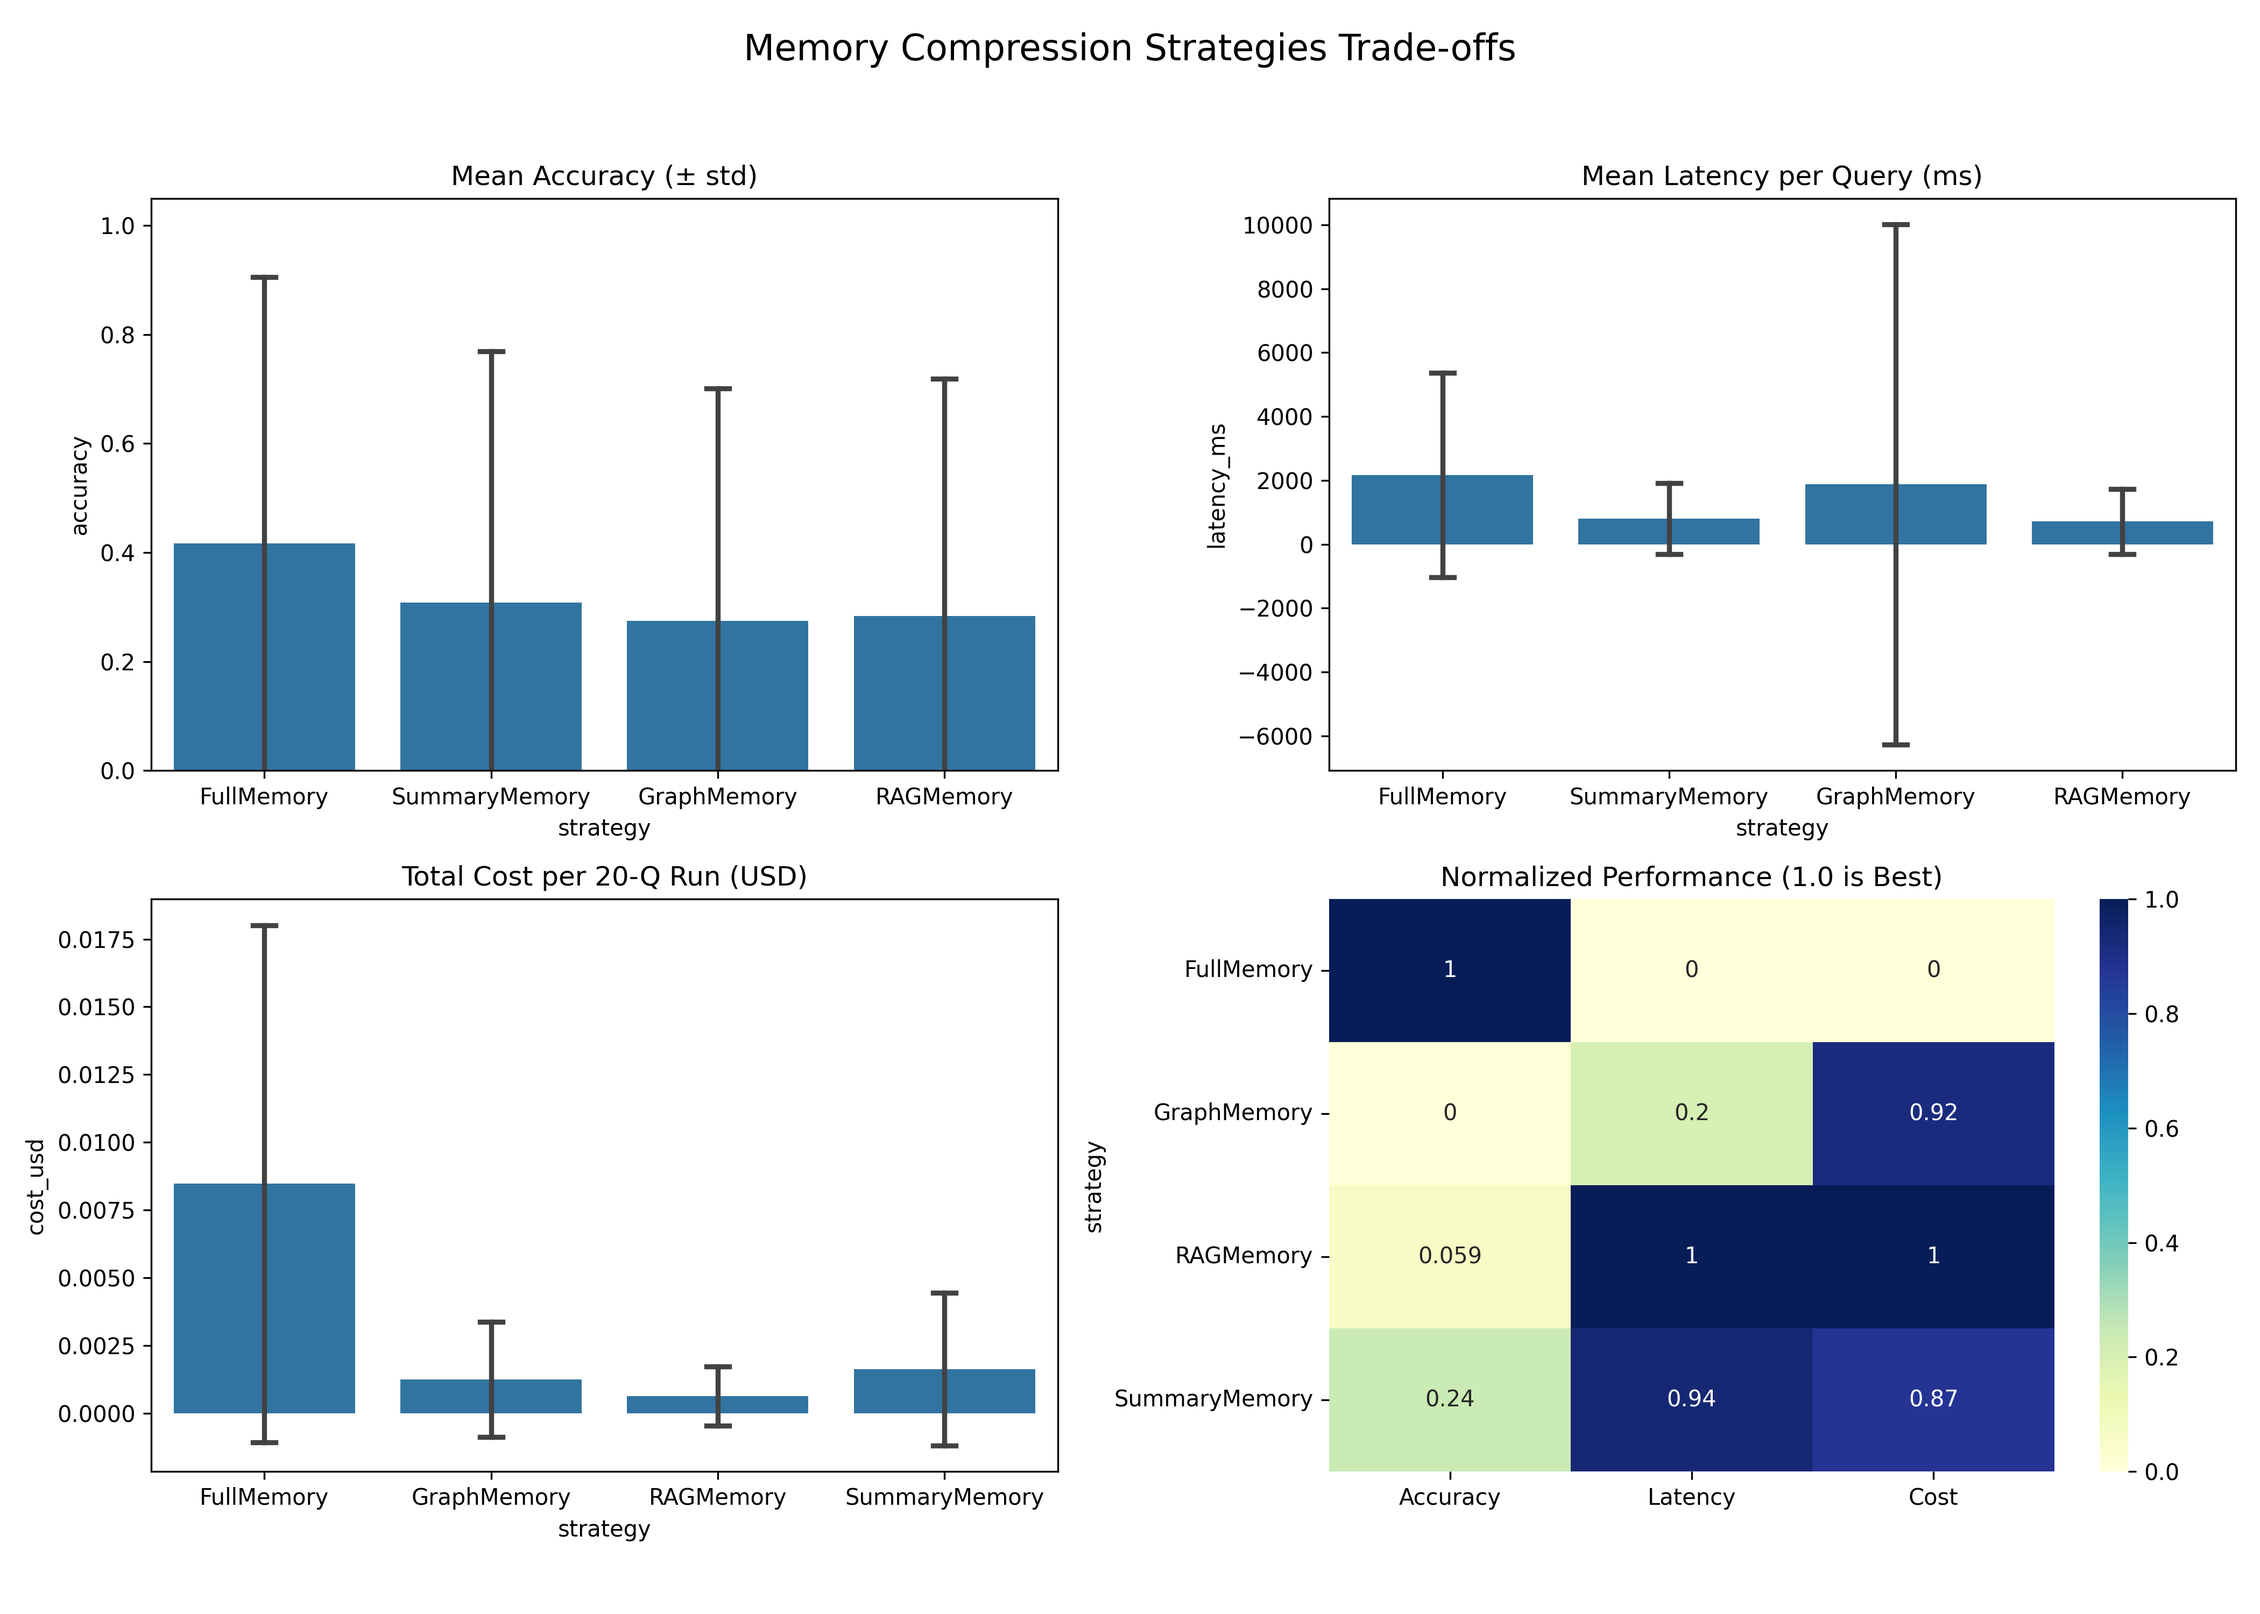
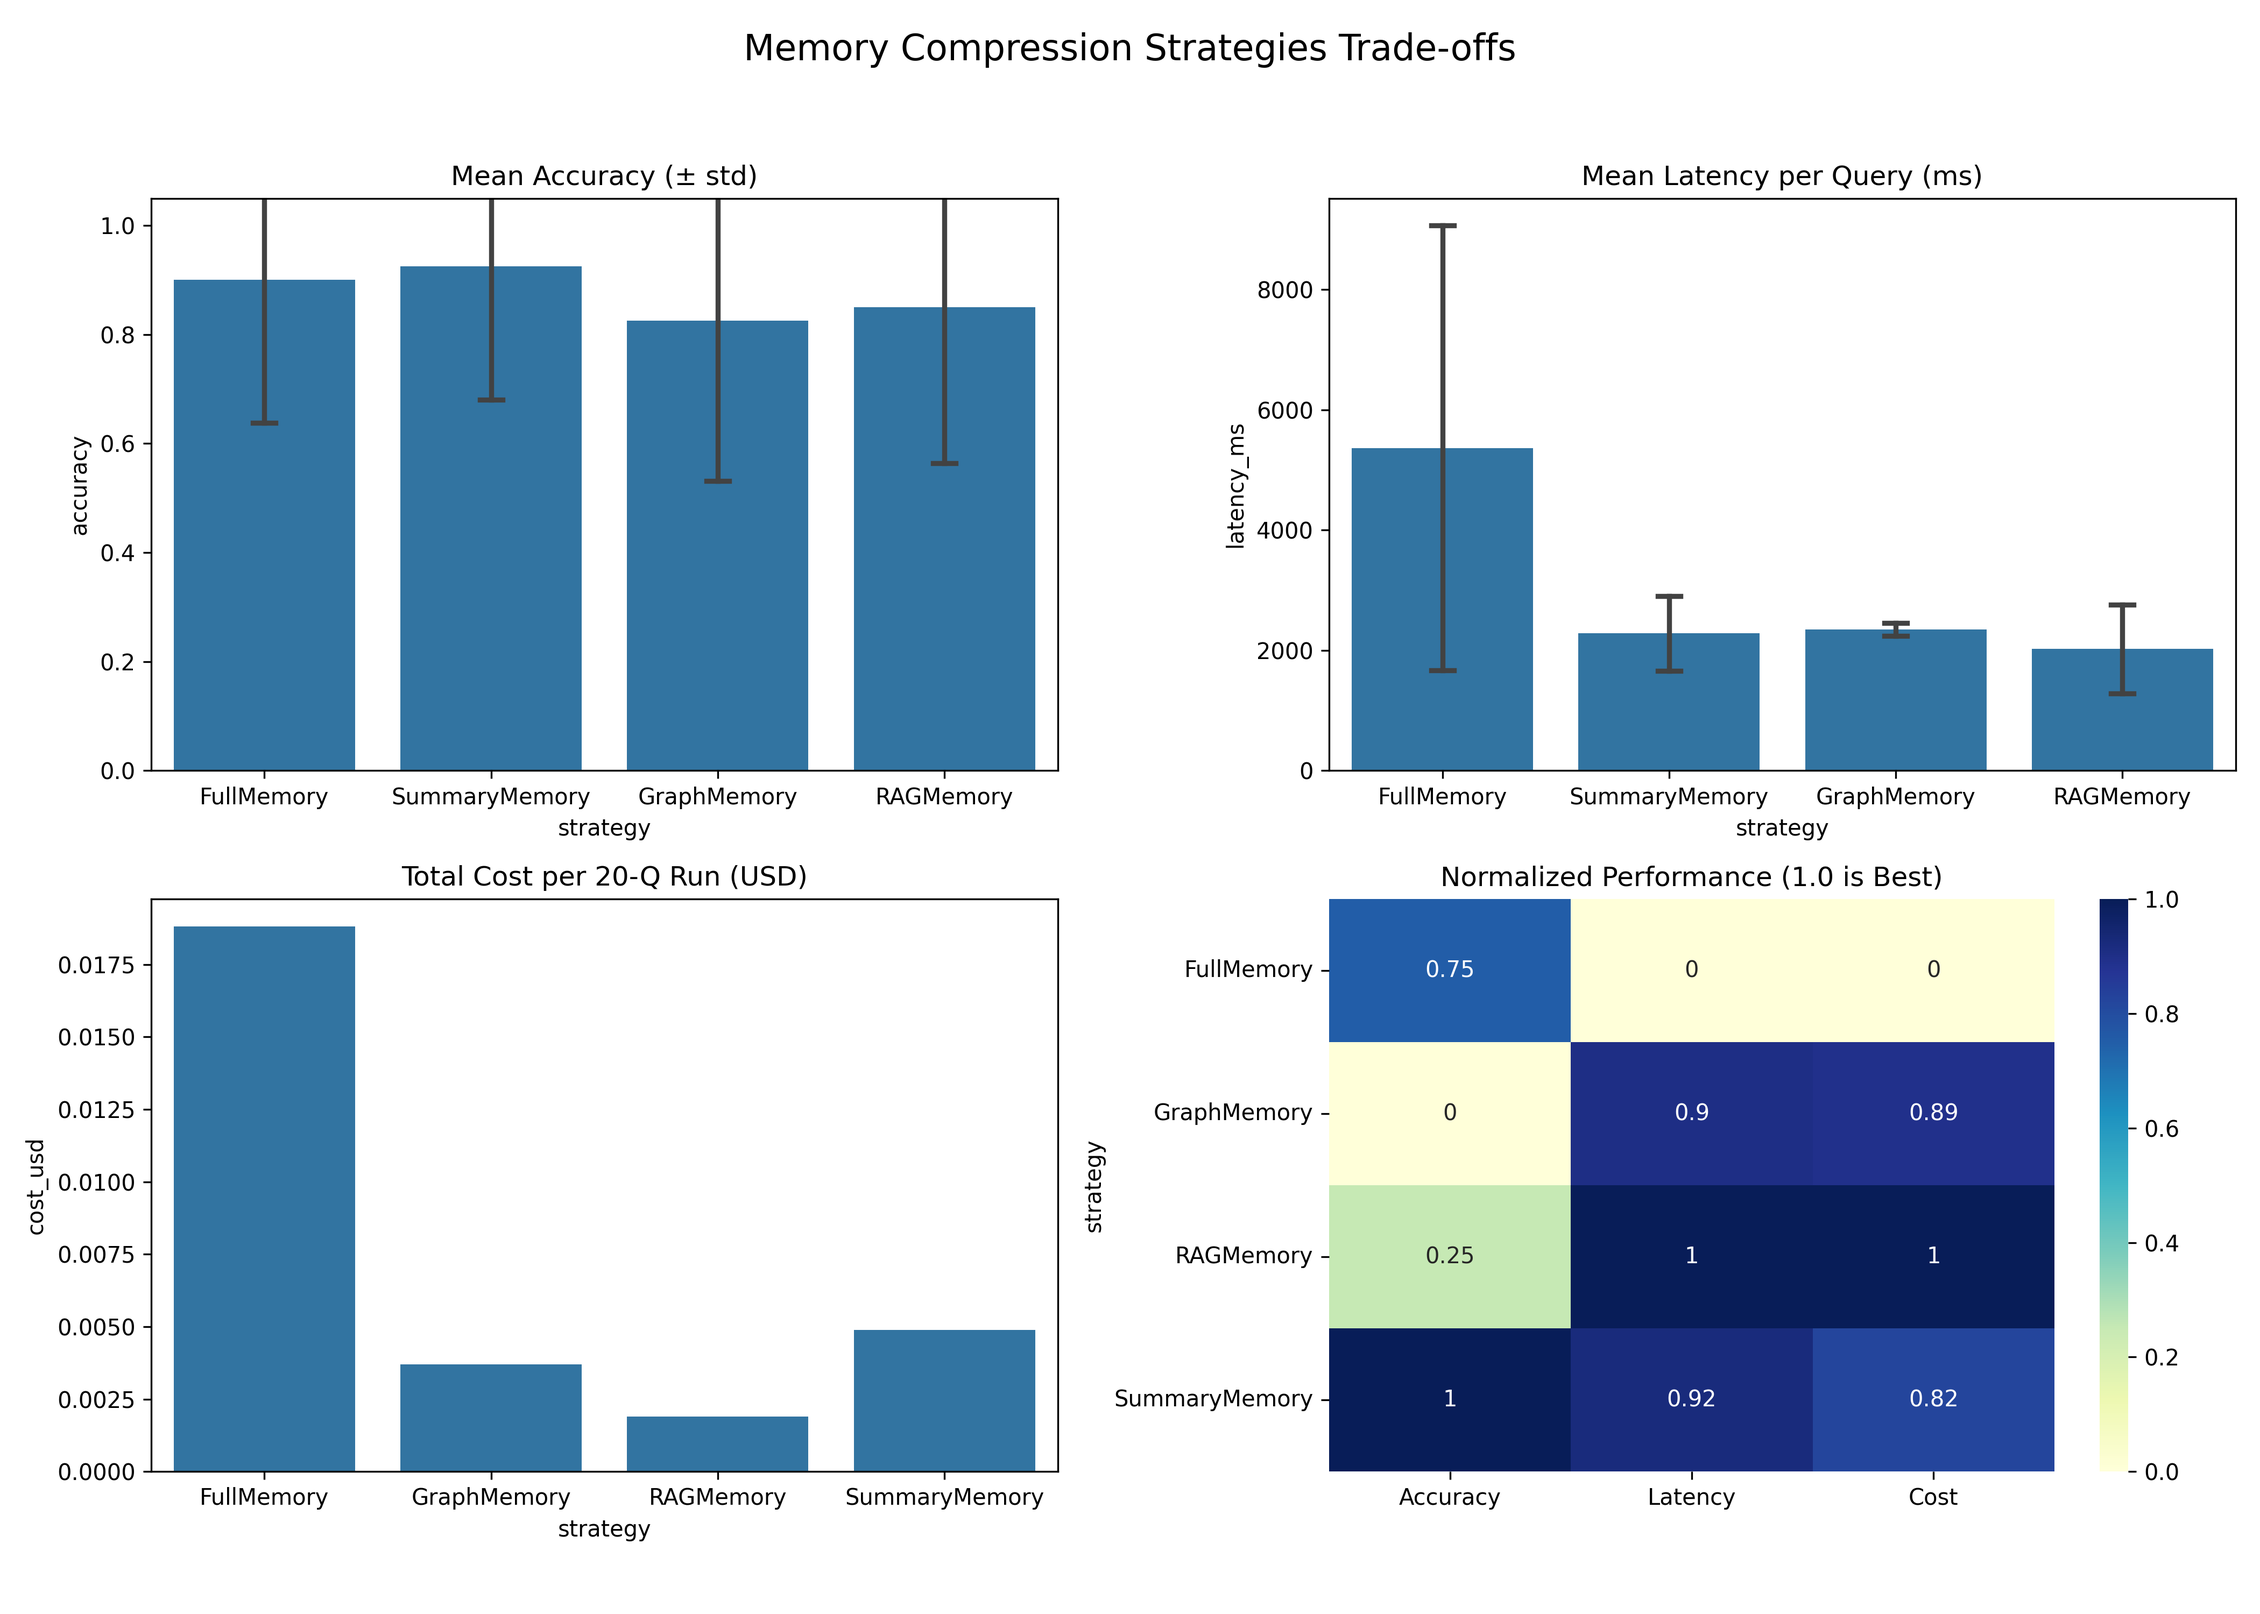
fix: resolve label positioning bug in cost bar chart causing dashboard image height explosion

diff --git a/scripts/visualize_run1.py b/scripts/visualize_run1.py
@@ -41,7 +41,7 @@ bars = ax.bar(strategy_labels, [c * 1000 for c in costs], color=colors, edgecolo
 ax.set_title('Total Cost per 20-Question Run', fontsize=12, fontweight='bold')
 ax.set_ylabel('Cost (mUSD, x10⁻³)')
 for bar, val in zip(bars, costs):
-    ax.text(bar.get_x() + bar.get_width()/2, bar.get_height() * 1000 + 0.2, f'${val:.4f}', ha='center', va='bottom', fontsize=10, fontweight='bold')
+    ax.text(bar.get_x() + bar.get_width()/2, bar.get_height() + 0.2, f'${val:.4f}', ha='center', va='bottom', fontsize=10, fontweight='bold')
 
 # --- Heatmap ---
 ax = axes[1, 1]
